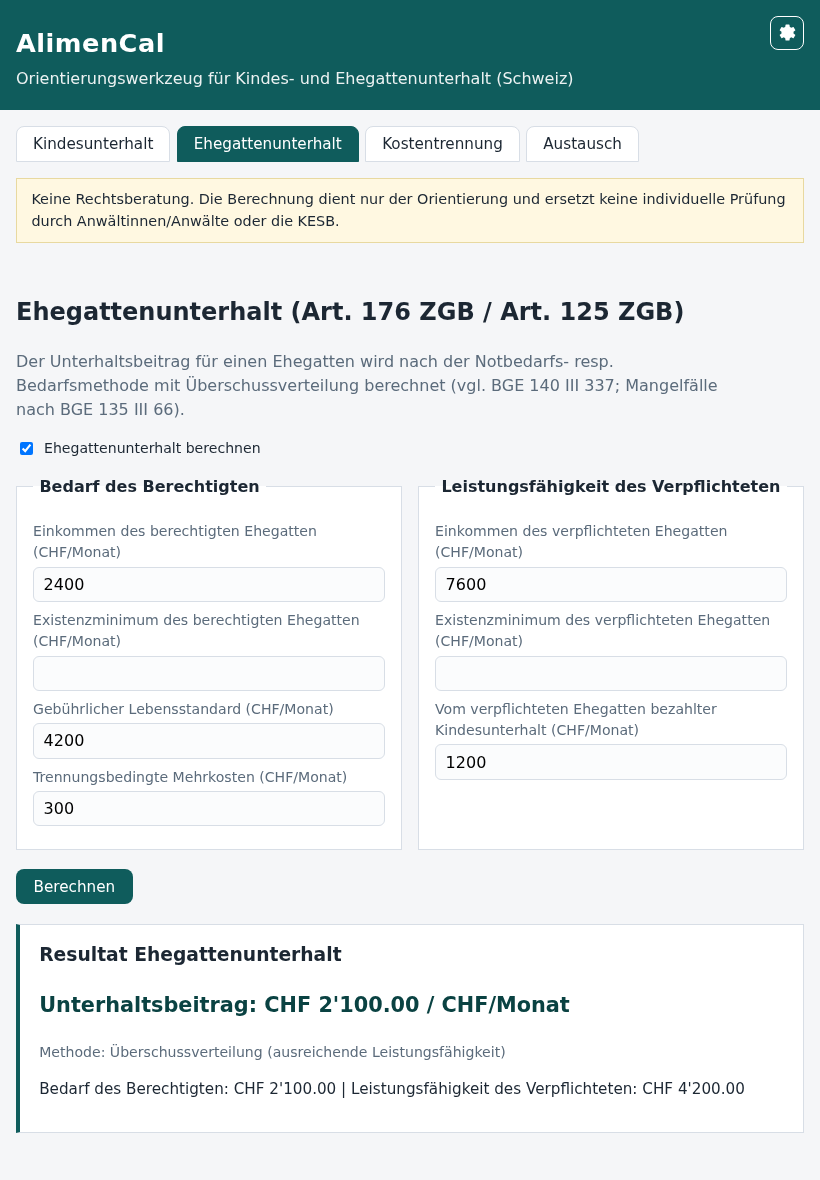
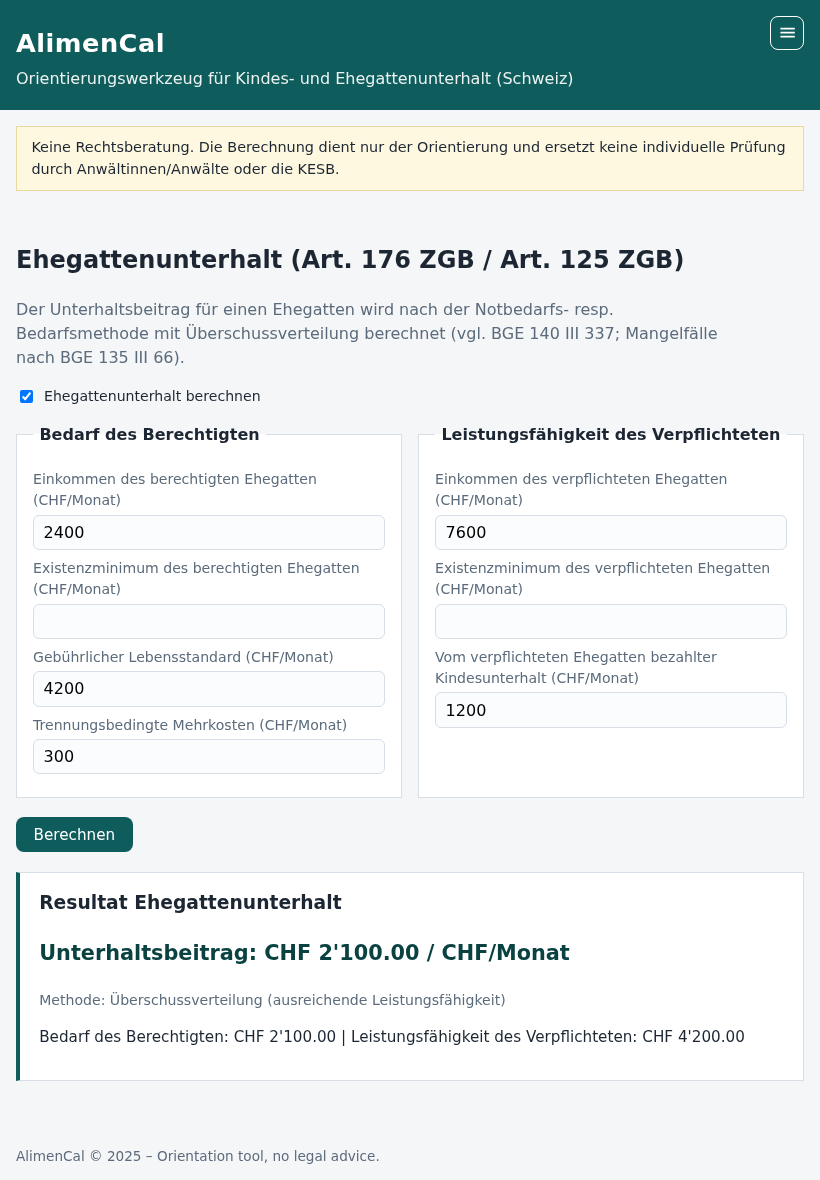
Hamburger-Menue: komplette Navigation ins Menue im Kopf
- Zahnrad-Icon durch Hamburger-Icon ersetzt; Tab-Leiste entfernt
- Alle Navigationseintraege (Kindesunterhalt, Ehegattenunterhalt, Kostentrennung, Austausch, Richtwerte, Themes, Ueber) plus Sprachwahl in einem Menue, auf allen Geraetetypen
- Menue schliesst bei Auswahl, Klick ausserhalb oder Escape (unveraendert)
- CSS: Tab-Leisten-/Media-Query-Regeln entfernt, Menue-Breiten angepasst
- tools/make-screenshots.js: View 05 auf menu-btn umgestellt (05-hauptmenue), alle 27 Screenshots erneuert
- Doku nachgefuehrt: AGENTS.md (Inventar, Struktur), docs/BENUTZERHANDBUCH.md (Navigation, Menue-Referenzen), README (Nutzung)

diff --git a/js/app.js b/js/app.js
@@ -654,11 +654,11 @@
     document.querySelectorAll('.tab[data-tab="settings"]').forEach(function (el) { el.textContent = t('nav', 'settings'); });
     document.querySelectorAll('.tab[data-tab="about"]').forEach(function (el) { el.textContent = t('nav', 'about'); });
 
-    var settingsBtn = document.getElementById('settings-btn');
-    settingsBtn.title = t('nav', 'settingsMenu');
-    settingsBtn.setAttribute('aria-label', t('nav', 'settingsMenu'));
-    if (!settingsBtn.innerHTML) {
-      settingsBtn.innerHTML = '<svg viewBox="0 0 24 24" aria-hidden="true"><path fill="currentColor" d="M12 15.5a3.5 3.5 0 1 0 0-7 3.5 3.5 0 0 0 0 7zm7.4-2.5c.04-.33.06-.66.06-1s-.02-.67-.06-1l2.1-1.65a.5.5 0 0 0 .12-.64l-2-3.46a.5.5 0 0 0-.6-.22l-2.5 1a7.3 7.3 0 0 0-1.73-1l-.38-2.65A.5.5 0 0 0 13.9 2h-4a.5.5 0 0 0-.5.42l-.38 2.65c-.63.26-1.2.6-1.73 1l-2.5-1a.5.5 0 0 0-.6.22l-2 3.46a.5.5 0 0 0 .12.64L4.4 11a7.6 7.6 0 0 0 0 2l-2.1 1.65a.5.5 0 0 0-.12.64l2 3.46c.13.22.4.31.6.22l2.5-1c.53.4 1.1.74 1.73 1l.38 2.65c.04.24.25.42.5.42h4c.25 0 .46-.18.5-.42l.38-2.65c.63-.26 1.2-.6 1.73-1l2.5 1c.2.09.47 0 .6-.22l2-3.46a.5.5 0 0 0-.12-.64L19.4 13z"/></svg>';
+    var menuBtn = document.getElementById('menu-btn');
+    menuBtn.title = t('nav', 'settingsMenu');
+    menuBtn.setAttribute('aria-label', t('nav', 'settingsMenu'));
+    if (!menuBtn.innerHTML) {
+      menuBtn.innerHTML = '<svg viewBox="0 0 24 24" aria-hidden="true"><path fill="currentColor" d="M3 6h18v2H3zm0 5h18v2H3zm0 5h18v2H3z"/></svg>';
     }
 
     var ownerSelect = document.getElementById('costsplit-owner');
@@ -1742,27 +1742,27 @@
       })(tabs[i]);
     }
 
-    var settingsBtn = document.getElementById('settings-btn');
-    var settingsMenu = document.getElementById('settings-menu');
+    var menuBtn = document.getElementById('menu-btn');
+    var mainMenu = document.getElementById('main-menu');
     function closeSettingsMenu() {
-      settingsMenu.hidden = true;
-      settingsBtn.setAttribute('aria-expanded', 'false');
+      mainMenu.hidden = true;
+      menuBtn.setAttribute('aria-expanded', 'false');
     }
-    settingsBtn.addEventListener('click', function (e) {
+    menuBtn.addEventListener('click', function (e) {
       e.stopPropagation();
-      settingsMenu.hidden = !settingsMenu.hidden;
-      settingsBtn.setAttribute('aria-expanded', String(!settingsMenu.hidden));
+      mainMenu.hidden = !mainMenu.hidden;
+      menuBtn.setAttribute('aria-expanded', String(!mainMenu.hidden));
     });
-    Array.prototype.forEach.call(settingsMenu.querySelectorAll('.tab'), function (btn) {
+    Array.prototype.forEach.call(mainMenu.querySelectorAll('.tab'), function (btn) {
       btn.addEventListener('click', closeSettingsMenu);
     });
     document.addEventListener('click', function (e) {
-      if (!settingsMenu.hidden && !settingsMenu.contains(e.target) && e.target !== settingsBtn) {
+      if (!mainMenu.hidden && !mainMenu.contains(e.target) && e.target !== menuBtn) {
         closeSettingsMenu();
       }
     });
     document.addEventListener('keydown', function (e) {
-      if (e.key === 'Escape' && !settingsMenu.hidden) {
+      if (e.key === 'Escape' && !mainMenu.hidden) {
         closeSettingsMenu();
       }
     });

diff --git a/css/style.css b/css/style.css
@@ -54,14 +54,7 @@ header h1 { margin: 0; font-size: 1.6rem; letter-spacing: 0.5px; }
   border: none;
 }
 
-.tabs {
-  display: flex;
-  gap: 0.4rem;
-  margin-top: 1rem;
-  flex-wrap: wrap;
-  -webkit-overflow-scrolling: touch;
-}
-/* Kopf-Aktionen: Zahnrad oben rechts + Sprachwahl */
+/* Kopf-Aktionen: Hamburger-Menue oben rechts + Sprachwahl */
 .header-actions { position: absolute; top: 1rem; right: 1rem; display: flex; align-items: center; gap: 0.75rem; }
 .settings-menu .lang-switch { margin-top: 0; padding: 0.35rem 0.6rem 0.15rem; font-size: 0.92rem; color: var(--ink); }
 .settings-menu .lang-switch select { width: 100%; margin-top: 0.25rem; padding: 0.3rem 0.4rem; border-radius: 6px; border: 1px solid var(--line); background: var(--bg); color: var(--ink); }
@@ -73,15 +66,12 @@ header h1 { margin: 0; font-size: 1.6rem; letter-spacing: 0.5px; }
 .settings-menu[hidden] { display: none; }
 .settings-menu .tab { display: block; width: 100%; text-align: left; border: none; background: transparent; border-radius: 6px; padding: 0.45rem 0.6rem; font-size: 0.92rem; cursor: pointer; color: var(--ink); }
 .settings-menu .tab:hover, .settings-menu .tab.active { background: var(--accent); color: var(--accent-ink); }
-@media (max-width: 560px) {
-  .header-actions { position: static; margin-top: 0.9rem; }
-}
 .tab {
   border: 1px solid var(--line);
   background: var(--card);
   color: var(--ink);
   padding: 0.5rem 1rem;
-  border-radius: 8px 8px 0 0;
+  border-radius: 8px;
   cursor: pointer;
   font-size: 0.95rem;
 }
@@ -90,6 +80,7 @@ header h1 { margin: 0; font-size: 1.6rem; letter-spacing: 0.5px; }
   color: var(--accent-ink);
   border-color: var(--accent);
 }
+.main-menu { min-width: 13rem; }
 
 .tabpanel { display: none; padding: 1rem 0 2rem; }
 .tabpanel.active { display: block; }
@@ -276,13 +267,8 @@ footer { padding: 1.5rem 0 2.5rem; color: var(--muted); font-size: 0.85rem; }
 @media (max-width: 640px) {
   header h1 { font-size: 1.35rem; }
 
-  .tabs {
-    flex-wrap: nowrap;
-    overflow-x: auto;
-    padding-bottom: 0.4rem;
-    scrollbar-width: thin;
-  }
-  .tab { flex: 0 0 auto; padding: 0.5rem 0.8rem; }
+  .main-menu { min-width: 11rem; max-width: calc(100vw - 2rem); }
+  .settings-menu .tab { padding: 0.55rem 0.8rem; font-size: 1rem; }
 
   .grid { gap: 0.75rem; }
   .card, .child-row { padding: 0.75rem 0.8rem; }

diff --git a/index.html b/index.html
@@ -11,8 +11,13 @@
   <header>
     <div class="wrap">
       <div class="header-actions">
-        <button type="button" id="settings-btn" class="settings-btn" aria-haspopup="menu" aria-expanded="false" aria-controls="settings-menu"></button>
-        <div id="settings-menu" class="settings-menu" role="menu" hidden>
+        <button type="button" id="menu-btn" class="settings-btn menu-btn" aria-haspopup="menu" aria-expanded="false" aria-controls="main-menu"></button>
+        <div id="main-menu" class="settings-menu main-menu" role="menu" hidden>
+          <button type="button" class="tab settings-menu-item" data-tab="children" role="menuitem"></button>
+          <button type="button" class="tab settings-menu-item" data-tab="spousal" role="menuitem"></button>
+          <button type="button" class="tab settings-menu-item" data-tab="costsplit" role="menuitem"></button>
+          <button type="button" class="tab settings-menu-item" data-tab="share" role="menuitem"></button>
+          <div class="settings-menu-sep"></div>
           <button type="button" class="tab settings-menu-item" data-tab="settings" role="menuitem"></button>
           <button type="button" class="tab settings-menu-item" data-tab="themes" role="menuitem"></button>
           <button type="button" class="tab settings-menu-item" data-tab="about" role="menuitem"></button>
@@ -33,12 +38,6 @@
     </div>
   </header>
 
-  <nav class="tabs wrap" role="tablist">
-    <button class="tab active" data-tab="children" role="tab"></button>
-    <button class="tab" data-tab="spousal" role="tab"></button>
-    <button class="tab" data-tab="costsplit" role="tab"></button>
-    <button class="tab" data-tab="share" role="tab"></button>
-  </nav>
 
   <main class="wrap">
     <p id="disclaimer" class="disclaimer"></p>

diff --git a/tools/make-screenshots.js b/tools/make-screenshots.js
@@ -49,7 +49,7 @@ const VIEWS = [
   { n: 2, name: 'ehegattenunterhalt', langs: ['de'], setup: setupSpousal },
   { n: 3, name: 'kostentrennung', langs: ['de'], setup: setupCostsplit },
   { n: 4, name: 'austausch', langs: ['de'], setup: setupShare },
-  { n: 5, name: 'einstellungen-menue', langs: ['de'], setup: setupSettingsMenu },
+  { n: 5, name: 'hauptmenue', langs: ['de'], setup: setupSettingsMenu },
   { n: 6, name: 'richtwerte', langs: ['de'], setup: setupSettings },
   { n: 7, name: 'themes-classic', langs: ['de'], setup: setupThemesClassic },
   { n: 8, name: 'themes-dark', langs: ['de'], setup: setupThemesDark },
@@ -149,7 +149,7 @@ async function setupSpousal(page) {
 }
 
 async function setupSettingsMenu(page) {
-  await page.evaluate(() => document.getElementById('settings-btn').click());
+  await page.evaluate(() => document.getElementById('menu-btn').click());
 }
 
 async function setupSettings(page) {

diff --git a/docs/BENUTZERHANDBUCH.md b/docs/BENUTZERHANDBUCH.md
@@ -47,17 +47,17 @@ Beispiel einer fremdsprachigen Ansicht (Français):
 
 ![Pension alimentaire (FR)](../screenshots/pc/09-pension-enfants-fr.png)
 
-Die Sprache wird im Zahnrad-Menü oben rechts gewählt: **Deutsch, Français,
+Die Sprache wird im Hamburger-Menü oben rechts gewählt: **Deutsch, Français,
 Italiano, English**. Die Auswahl wird im Browser gespeichert (`localStorage`)
 und beim nächsten Öffnen wiederhergestellt.
 
 ## Tabs im Überblick
 
-Die Hauptnavigation enthält die **Funktionen** (Berechnungen und
-Austausch). Die **Einstellungen und Informationen** sind über den
-Zahnrad-Button („Einstellungen und Informationen“) oben rechts im Kopf
-über ein Dropdown-Menü erreichbar; dieses schliesst bei Auswahl, Klick
-ausserhalb des Menüs oder mit der Escape-Taste.
+Die komplette Navigation – Funktionen, Einstellungen und Informationen
+sowie die Sprachwahl – ist über das Hamburger-Menü („Einstellungen und
+Informationen“) oben rechts im Kopf erreichbar. Das Menü schliesst bei
+Auswahl eines Eintrags, Klick ausserhalb des Menüs oder mit der
+Escape-Taste.
 
 **Funktionen (Hauptnavigation):**
 
@@ -68,9 +68,9 @@ ausserhalb des Menüs oder mit der Escape-Taste.
 | Kostentrennung | Laufende Kosten ab einem Stichtag separat abrechnen (Bankexport) |
 | Austausch | Eigene Daten exportieren, Datei der anderen Partei importieren |
 
-**Einstellungen & Info (Zahnrad-Menü im Kopf):**
+**Einstellungen & Info (im Hamburger-Menü):**
 
-![Einstellungen-Menü (DE)](../screenshots/pc/05-einstellungen-menue-de.png)
+![Hauptmenü (DE)](../screenshots/pc/05-hauptmenue-de.png)
 
 | Tab | Zweck |
 |---|---|

diff --git a/AGENTS.md b/AGENTS.md
@@ -70,7 +70,7 @@ wird jeder untenstehende View erzeugt (Views 1-8 Deutsch, View 9 Francais).
 | `02-ehegattenunterhalt-de.png` | Ehegattenunterhalt mit Bedarf/Leistungsfähigkeit und Resultat (Deutsch) |
 | `03-kostentrennung-de.png` | Kostentrennung mit anonymisiertem Bankexport, Zuordnungen und Ausgleich (Deutsch) |
 | `04-austausch-de.png` | Austausch-Tab mit Export/Import (Deutsch) |
-| `05-einstellungen-menue-de.png` | Zahnrad-Menü geöffnet: Einstellungen/Info-Einträge und Sprachwahl (Deutsch) |
+| `05-hauptmenue-de.png` | Hamburger-Menü geöffnet: alle Navigationseinträge und Sprachwahl (Deutsch) |
 | `06-richtwerte-de.png` | Richtwerte mit Preset-Auswahl und Wertetabelle (Deutsch) |
 | `07-themes-classic-de.png` | Themes mit Theme-Editor, Classic (Deutsch) |
 | `08-themes-dark-de.png` | Themes, Dark-Theme (Duplikat von 07, legitimiert: dokumentiertes Feature) |
@@ -79,7 +79,7 @@ wird jeder untenstehende View erzeugt (Views 1-8 Deutsch, View 9 Francais).
 ### Struktur
 
 ```
-index.html          UI (Tab-Navigation mit Funktionen: Kindesunterhalt, Ehegattenunterhalt, Kostentrennung, Austausch; Richtwerte/Themes/Über und Sprachwahl über Zahnrad-Menü oben rechts im Kopf)
+index.html          UI (Hamburger-Menü oben rechts mit Navigation: Kindesunterhalt, Ehegattenunterhalt, Kostentrennung, Austausch, Richtwerte, Themes, Über und Sprachwahl)
 css/style.css       Styles
 js/calculator.js    Berechnungskern (DOM-frei, auch in Node.js lauffähig)
 js/costsplit.js     Kostentrennung: CSV-Import, Zuordnung, Ausgleich (DOM-frei)

diff --git a/README.md b/README.md
@@ -32,7 +32,7 @@ Installation, kein Server, keine Abhängigkeiten.
 2. `index.html` per Doppelklick im Browser öffnen (Chrome, Firefox, Edge …) –
    die App läuft direkt über `file://`.
 
-3. Über das Zahnrad-Menü oben rechts allenfalls unter **Richtwerte** das
+3. Über das Hamburger-Menü oben rechts allenfalls unter **Richtwerte** das
    kantonale Preset laden (z. B. Zürcher Kinderkosten-Tabelle 1.3.2025),
    dann im Tab **Kindesunterhalt** mit der Erfassung beginnen.
 
@@ -92,7 +92,7 @@ oder beliebiges statisches Hosting (z. B. GitHub Pages) bereitgestellt werden.
    Ausgleich. Details: [docs/KOSTENTRENNUNG.md](docs/KOSTENTRENNUNG.md)
 5. Tab **Austausch**: eigene Daten als JSON exportieren, Datei der
    anderen Partei importieren (Merge).
-6. Über das Zahnrad-Menü oben rechts im Kopf: Sprachwahl sowie unter
+6. Über das Hamburger-Menü oben rechts im Kopf: Sprachwahl sowie unter
    **Richtwerte** kantonale Werte anpassen, speichern,
    exportieren/importieren, Presets laden, und unter **Themes** Design
    wählen oder im Theme-Editor Farben anpassen.
